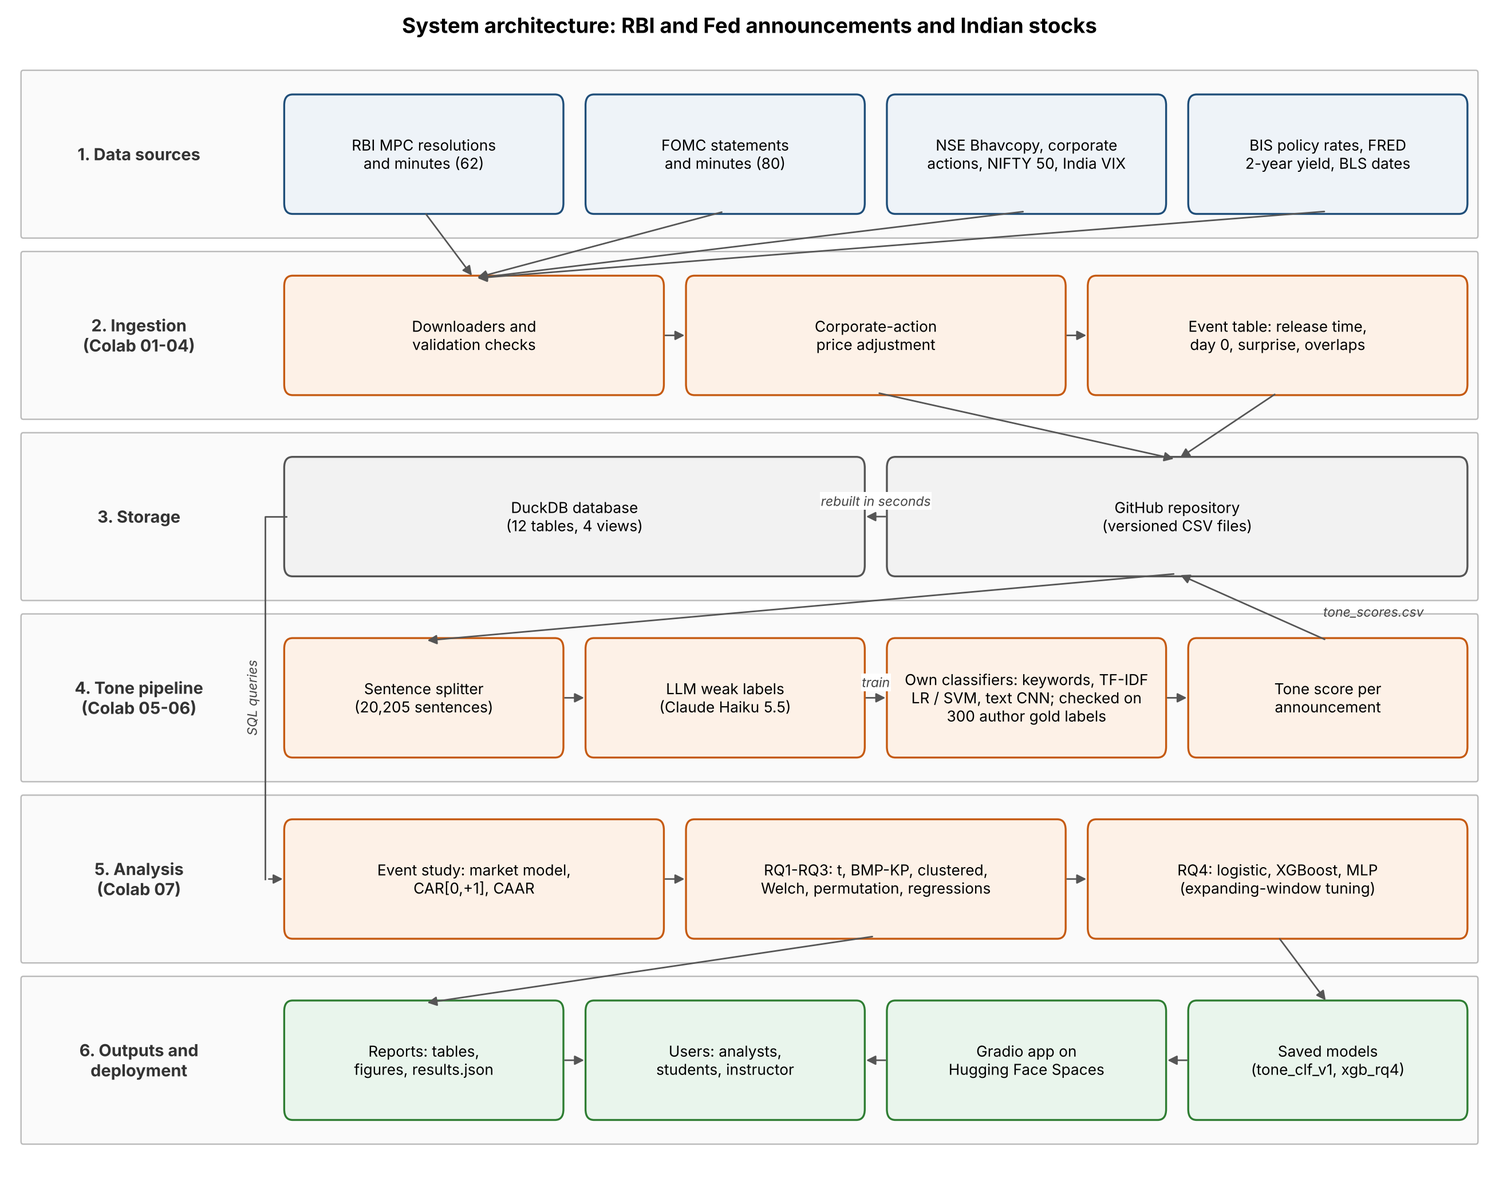
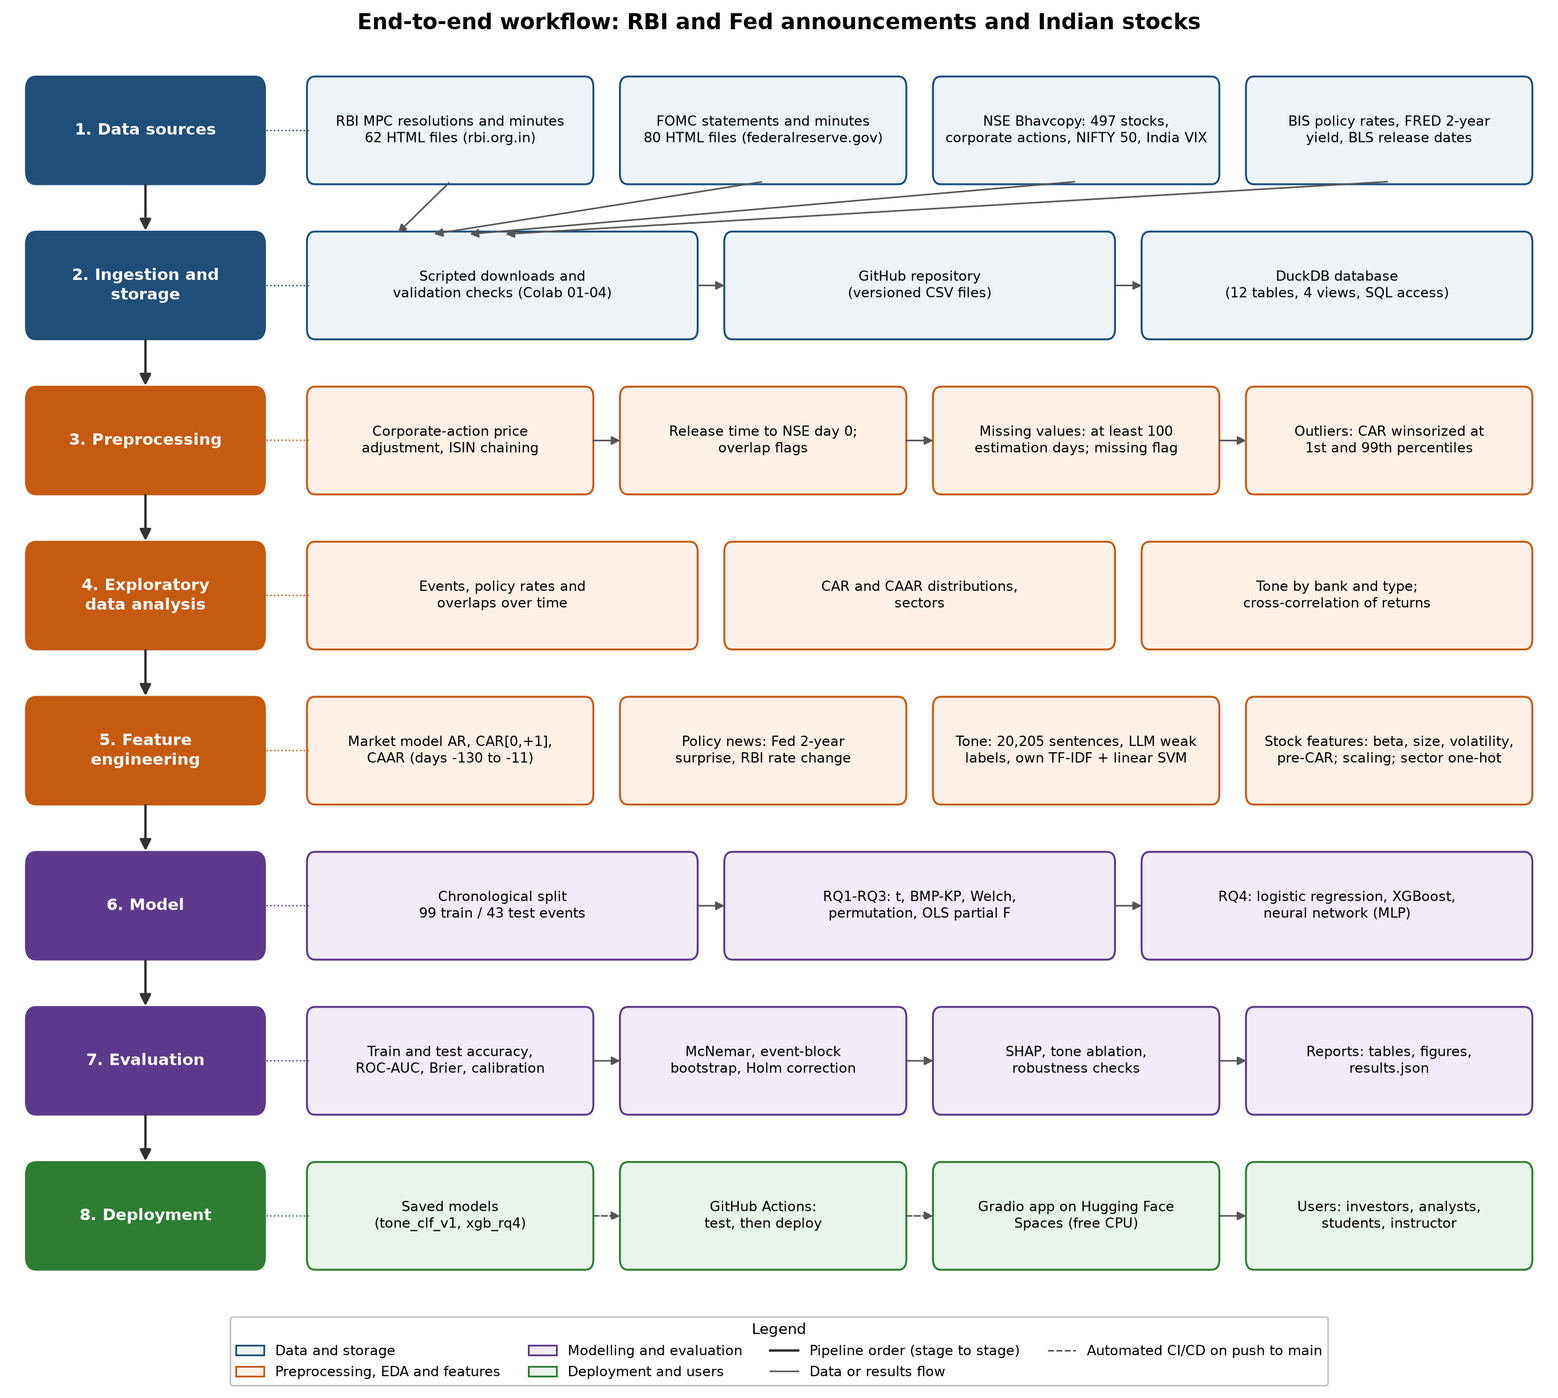
Redraw architecture diagram and add EDA and data-quality outputs
docs/architecture.py: eight stages (data sources, ingestion and storage, preprocessing, EDA, feature engineering,
model, evaluation, deployment with GitHub Actions and Hugging Face Spaces) with a legend
src/analysis/eda_summary.py: data-quality log, exclusion counts (reproduces the 61,957 stock-events), event,
CAR-distribution and sector tables, policy-rate timeline and CAR histogram in reports/final/eda/
README: EDA script and outputs

Changed region(s): [[0.0, 0.0, 0.9901, 0.9952], [0.4641, 0.4354, 0.495, 0.4665]]

diff --git a/src/analysis/eda_summary.py b/src/analysis/eda_summary.py
@@ -1,0 +1,162 @@
+"""
+Exploratory data analysis and data-quality log for the final report.
+
+Reads the same inputs as src/analysis/final_analysis.py and its outputs in reports/final/analysis/,
+and writes reports/final/eda/:
+    data_quality.csv          missing values, exclusions and outlier handling, with counts
+    exclusions.csv            stock-event candidates and the reason each excluded one was dropped
+    eda_events.csv            announcements by bank and type: decisions, CAAR, share of stocks up, tone, overlaps
+    eda_car_distribution.csv  distribution of stock-level CAR[0,+1] before and after winsorization
+    eda_sectors.csv           stocks and stock-events by sector, mean CAR and share up
+    figures/fig_eda_timeline.png  policy rates with announcement dates
+    figures/fig_eda_car_hist.png  stock-level CAR[0,+1] histogram with winsorization bounds
+
+Run from the repository root after notebook 07:
+    python src/analysis/eda_summary.py
+"""
+import json
+from pathlib import Path
+
+import matplotlib
+matplotlib.use("Agg")
+import matplotlib.pyplot as plt
+import numpy as np
+import pandas as pd
+
+ROOT = Path(__file__).resolve().parents[2]
+FINAL = ROOT / "reports/final/analysis"
+OUT = ROOT / "reports/final/eda"
+FIG = OUT / "figures"
+FIG.mkdir(parents=True, exist_ok=True)
+EST_START, EST_END, MIN_EST = -130, -11, 100        # same as final_analysis.py
+C_RBI, C_FED = "#1f4e79", "#c55a11"
+plt.rcParams.update({"font.family": "DejaVu Serif", "font.size": 10, "axes.spines.top": False,
+                     "axes.spines.right": False, "figure.dpi": 150})
+
+# ---------------------------------------------------------------- inputs
+adj = pd.read_csv(ROOT / "data/interim/prices_adjusted.csv.gz", parse_dates=["date"],
+                  usecols=["date", "symbol_current", "ret", "complex_action"])
+R = adj.pivot(index="date", columns="symbol_current", values="ret").sort_index()
+CX = adj.pivot(index="date", columns="symbol_current", values="complex_action").reindex(R.index).fillna(False).astype(bool)
+nifty = pd.read_csv(ROOT / "data/raw/prices/nifty50_daily.csv", parse_dates=["date"]).set_index("date")
+M = nifty["close"].pct_change().reindex(R.index)
+val = pd.read_csv(ROOT / "data/raw/prices/validation_report.csv")
+ev = pd.read_csv(FINAL / "event_level.csv", parse_dates=["release_date", "event_day0"])
+se = pd.read_csv(FINAL / "stock_event_car.csv.gz")
+res = json.loads((FINAL / "results.json").read_text())
+lo, hi = res["sample"]["winsor_bounds_0_1"]
+Rv, Mv, CXv = R.values, M.values, CX.values
+n_days = len(R)
+
+# ---------------------------------------------------------------- 1. exclusions (same rules as final_analysis.py)
+rows = []
+for e in ev.itertuples():
+    t0 = int(e.t0)
+    e0, e1 = max(t0 + EST_START, 0), t0 + EST_END
+    Y, X = Rv[e0:e1 + 1], Mv[e0:e1 + 1][:, None]
+    n_est = (~np.isnan(Y) & ~np.isnan(X)).sum(0)
+    miss01 = np.isnan(Rv[t0]) | np.isnan(Rv[t0 + 1]) if t0 + 1 < n_days else np.ones(R.shape[1], bool)
+    cx = CXv[max(t0 - 1, 0):t0 + 2].any(0)
+    reason = np.where(n_est < MIN_EST, "fewer than 100 estimation days (recent listing)",
+             np.where(miss01, "no return on day 0 or day +1",
+             np.where(cx, "complex corporate action on days -1 to +1", "kept")))
+    rows.append(pd.Series(reason).value_counts().rename(e.event_id))
+excl = pd.DataFrame(rows).fillna(0).astype(int)
+excl_tot = excl.sum().sort_values(ascending=False)
+excl_tot.rename_axis("reason").rename("stock_events").to_csv(OUT / "exclusions.csv")
+assert excl_tot.get("kept", 0) == len(se), "exclusion rules must reproduce the 61,957 stock-events"
+
+# ---------------------------------------------------------------- 2. data-quality log
+n_const, n_priced = len(val), int(val["rows"].gt(0).sum())
+car = se["car_raw"]
+fed_missing = ev.loc[(ev["bank"] == "FED") & ev["surprise_bps"].isna(), "event_id"].tolist()
+dq = [
+    ("NIFTY 500 constituents in the index file", n_const, "Universe as of October 2026"),
+    ("Constituents without NSE equity prices", n_const - n_priced, "Excluded (3 REITs and 1 placeholder symbol)"),
+    ("Stocks with price files", n_priced, "Used"),
+    ("Trading days in the price window (Apr 2021 to Sep 2026)", n_days, ""),
+    ("Stocks listed after April 2021 (shorter history)", int((val["rows"].between(1, n_days - 1)).sum()),
+     "Kept; a stock-event needs at least 100 valid estimation days"),
+    ("Missing trading days inside a stock's listed period (total)", int(val["missing_days"].fillna(0).sum()),
+     "Left missing (no filling); returns over the gap are not used"),
+    ("Stock-days with complex corporate actions", int(adj["complex_action"].sum()),
+     "Stock-events with such a day in [-1,+1] excluded"),
+    ("Stock-event candidates (142 events x stocks with prices)", int(excl.values.sum()), ""),
+] + [(f"Excluded: {k}", int(v), "Dropped") for k, v in excl_tot.items() if k != "kept"] + [
+    ("Stock-events kept", int(excl_tot["kept"]), f"{excl_tot['kept'] / excl.values.sum():.1%} of candidates"),
+    ("Fed events without a 2-year yield surprise", len(fed_missing),
+     f"{', '.join(fed_missing)}: dropped from RQ3 (141 events); in RQ4 set to 0 with a missing-value flag"),
+    ("RBI events with a market-based surprise", 0, "India T-bill not used; RBI rate change (bp) used instead, 0 for holds and minutes"),
+    ("Stock CARs below the 1st percentile", int((car < lo).sum()), f"Winsorized to {lo:.2f} pp"),
+    ("Stock CARs above the 99th percentile", int((car > hi).sum()), f"Winsorized to {hi:.2f} pp"),
+    ("Stock CARs exactly zero", int((se["car"] == 0).sum()), "Would be excluded from RQ4 (direction undefined)"),
+    ("Announcements with another event or macro release on days -1 to +1", int(ev["overlap_flag"].sum()),
+     "Kept in the main analysis; excluded in robustness checks"),
+]
+pd.DataFrame(dq, columns=["item", "count", "handling"]).to_csv(OUT / "data_quality.csv", index=False)
+
+# ---------------------------------------------------------------- 3. events by bank and type
+g = ev.groupby(["bank", "event_type"])
+eda_ev = pd.DataFrame({
+    "events": g.size(),
+    "hikes": g["decision"].apply(lambda x: (x == "hike").sum()),
+    "cuts": g["decision"].apply(lambda x: (x == "cut").sum()),
+    "holds": g["decision"].apply(lambda x: (x == "hold").sum()),
+    "stocks_per_event": g["n_stocks"].mean(),
+    "caar_mean": g["caar"].mean(), "caar_sd": g["caar"].std(), "caar_min": g["caar"].min(), "caar_max": g["caar"].max(),
+    "abs_caar_mean": g["abs_caar"].mean(), "share_up_mean": g["share_up"].mean(),
+    "tone_mean": g["tone_score"].mean(), "tone_sd": g["tone_score"].std(),
+    "sentences": g["n_sentences"].sum(), "overlap_events": g["overlap_flag"].sum(),
+    "mean_cross_corr": g["rbar"].mean(),
+}).round(4).reset_index()
+eda_ev.to_csv(OUT / "eda_events.csv", index=False)
+
+
+# ---------------------------------------------------------------- 4. CAR distribution
+def describe(x):
+    return {"n": len(x), "mean": x.mean(), "sd": x.std(), "p1": x.quantile(.01), "p25": x.quantile(.25),
+            "median": x.median(), "p75": x.quantile(.75), "p99": x.quantile(.99), "min": x.min(), "max": x.max(),
+            "skew": x.skew(), "excess_kurtosis": x.kurt(), "share_positive": (x > 0).mean()}
+
+
+dist = pd.DataFrame({"before winsorization": describe(car), "after winsorization": describe(se["car"]),
+                     "event CAAR (142 events)": describe(ev["caar"])}).T.round(4)
+dist.index.name = "series"
+dist.to_csv(OUT / "eda_car_distribution.csv")
+
+# ---------------------------------------------------------------- 5. sectors
+sec = (se.groupby("sector").agg(stocks=("symbol", "nunique"), stock_events=("car", "size"),
+                                mean_car=("car", "mean"), share_up=("car", lambda x: (x > 0).mean()))
+         .sort_values("stocks", ascending=False).round(4).reset_index())
+sec.to_csv(OUT / "eda_sectors.csv", index=False)
+
+# ---------------------------------------------------------------- 6. figures
+rates = pd.read_csv(ROOT / "data/interim/policy_rates.csv", parse_dates=["date"]).set_index("date")
+rates = rates.reindex(pd.date_range("2021-09-01", "2026-09-30")).ffill()   # carry the last BIS value forward
+fig, ax = plt.subplots(figsize=(9, 3.6))
+ax.step(rates.index, rates["rbi_rate"], where="post", color=C_RBI, lw=1.6, label="RBI repo rate")
+ax.step(rates.index, rates["fed_rate"], where="post", color=C_FED, lw=1.6, label="Fed funds target (mid-point)")
+for b, col, y in [("RBI", C_RBI, -0.35), ("FED", C_FED, -0.75)]:
+    for t, mk in [("DEC", "|"), ("MIN", "x")]:
+        d = ev[(ev["bank"] == b) & (ev["event_type"] == t)]["release_date"]
+        ax.scatter(d, np.full(len(d), y), marker=mk, color=col, s=28 if mk == "|" else 14, lw=1,
+                   label=f"{'Fed' if b == 'FED' else 'RBI'} {'decisions' if t == 'DEC' else 'minutes'}")
+ax.set_ylabel("Policy rate (%)"); ax.set_ylim(-1.1, 7.2)
+ax.legend(ncol=3, fontsize=8, frameon=False, loc="upper left")
+fig.tight_layout(); fig.savefig(FIG / "fig_eda_timeline.png", dpi=200, bbox_inches="tight"); plt.close(fig)
+
+fig, ax = plt.subplots(figsize=(8, 3.4))
+ax.hist(car.clip(-15, 15), bins=120, color="#7f8c8d", alpha=0.85)
+for b in (lo, hi):
+    ax.axvline(b, color="black", lw=0.9, ls="--")
+ax.text(hi + 0.3, ax.get_ylim()[1] * 0.85, f"99th pct\n{hi:.2f}", fontsize=8)
+ax.text(lo - 0.3, ax.get_ylim()[1] * 0.85, f"1st pct\n{lo:.2f}", fontsize=8, ha="right")
+ax.set_xlabel("Stock CAR[0,+1], percentage points (values beyond +/-15 shown at the edges)"); ax.set_ylabel("Stock-events")
+fig.tight_layout(); fig.savefig(FIG / "fig_eda_car_hist.png", dpi=200, bbox_inches="tight"); plt.close(fig)
+
+# ---------------------------------------------------------------- print
+pd.set_option("display.width", 200)
+print(pd.read_csv(OUT / "data_quality.csv").to_string(index=False))
+print(eda_ev.to_string(index=False))
+print(dist.to_string())
+print(sec.head(8).to_string(index=False))

diff --git a/docs/architecture.py b/docs/architecture.py
@@ -1,78 +1,87 @@
-"""Draws docs/architecture.png (system architecture of the capstone project). Run: python docs/architecture.py"""
+"""Draws docs/architecture.png (end-to-end workflow of the capstone project). Run: python docs/architecture.py"""
 from pathlib import Path
+
 import matplotlib
 matplotlib.use("Agg")
 import matplotlib.pyplot as plt
-from matplotlib.patches import FancyBboxPatch, FancyArrowPatch
+from matplotlib.lines import Line2D
+from matplotlib.patches import FancyArrowPatch, FancyBboxPatch, Patch
 
-LAYERS = [  # (layer title, fill, edge, boxes)
-    ("1. Data sources", "#eef3f8", "#1f4e79",
-     ["RBI MPC resolutions\nand minutes (62)", "FOMC statements\nand minutes (80)", "NSE Bhavcopy, corporate\nactions, NIFTY 50, India VIX",
-      "BIS policy rates, FRED\n2-year yield, BLS dates"]),
-    ("2. Ingestion\n(Colab 01-04)", "#fdf1e7", "#c55a11",
-     ["Downloaders and\nvalidation checks", "Corporate-action\nprice adjustment", "Event table: release time,\nday 0, surprise, overlaps"]),
-    ("3. Storage", "#f2f2f2", "#555555",
-     ["DuckDB database\n(12 tables, 4 views)", "GitHub repository\n(versioned CSV files)"]),
-    ("4. Tone pipeline\n(Colab 05-06)", "#fdf1e7", "#c55a11",
-     ["Sentence splitter\n(20,205 sentences)", "LLM weak labels\n(Claude Haiku 5.5)",
-      "Own classifiers: keywords, TF-IDF\nLR / SVM, text CNN; checked on\n300 author gold labels", "Tone score per\nannouncement"]),
-    ("5. Analysis\n(Colab 07)", "#fdf1e7", "#c55a11",
-     ["Event study: market model,\nCAR[0,+1], CAAR", "RQ1-RQ3: t, BMP-KP, clustered,\nWelch, permutation, regressions",
-      "RQ4: logistic, XGBoost, MLP\n(expanding-window tuning)"]),
-    ("6. Outputs and\ndeployment", "#e9f5ec", "#2e7d32",
-     ["Reports: tables,\nfigures, results.json", "Users: analysts,\nstudents, instructor", "Gradio app on\nHugging Face Spaces",
-      "Saved models\n(tone_clf_v1, xgb_rq4)"]),
+KIND = {  # stage type: (box fill, edge colour, legend label)
+    "data": ("#eef3f8", "#1f4e79", "Data and storage"),
+    "prep": ("#fdf1e7", "#c55a11", "Preprocessing, EDA and features"),
+    "model": ("#f1ecf7", "#5b3a8c", "Modelling and evaluation"),
+    "deploy": ("#e9f5ec", "#2e7d32", "Deployment and users"),
+}
+STAGES = [  # (stage title, kind, boxes, chain the boxes left to right)
+    ("1. Data sources", "data",
+     ["RBI MPC resolutions and minutes\n62 HTML files (rbi.org.in)", "FOMC statements and minutes\n80 HTML files (federalreserve.gov)",
+      "NSE Bhavcopy: 497 stocks,\ncorporate actions, NIFTY 50, India VIX", "BIS policy rates, FRED 2-year\nyield, BLS release dates"], False),
+    ("2. Ingestion and\nstorage", "data",
+     ["Scripted downloads and\nvalidation checks (Colab 01-04)", "GitHub repository\n(versioned CSV files)",
+      "DuckDB database\n(12 tables, 4 views, SQL access)"], True),
+    ("3. Preprocessing", "prep",
+     ["Corporate-action price\nadjustment, ISIN chaining", "Release time to NSE day 0;\noverlap flags",
+      "Missing values: at least 100\nestimation days; missing flag", "Outliers: CAR winsorized at\n1st and 99th percentiles"], True),
+    ("4. Exploratory\ndata analysis", "prep",
+     ["Events, policy rates and\noverlaps over time", "CAR and CAAR distributions,\nsectors", "Tone by bank and type;\ncross-correlation of returns"], False),
+    ("5. Feature\nengineering", "prep",
+     ["Market model AR, CAR[0,+1],\nCAAR (days -130 to -11)", "Policy news: Fed 2-year\nsurprise, RBI rate change",
+      "Tone: 20,205 sentences, LLM weak\nlabels, own TF-IDF + linear SVM", "Stock features: beta, size, volatility,\npre-CAR; scaling; sector one-hot"], False),
+    ("6. Model", "model",
+     ["Chronological split\n99 train / 43 test events", "RQ1-RQ3: t, BMP-KP, Welch,\npermutation, OLS partial F",
+      "RQ4: logistic regression, XGBoost,\nneural network (MLP)"], True),
+    ("7. Evaluation", "model",
+     ["Train and test accuracy,\nROC-AUC, Brier, calibration", "McNemar, event-block\nbootstrap, Holm correction",
+      "SHAP, tone ablation,\nrobustness checks", "Reports: tables, figures,\nresults.json"], True),
+    ("8. Deployment", "deploy",
+     ["Saved models\n(tone_clf_v1, xgb_rq4)", "GitHub Actions:\ntest, then deploy",
+      "Gradio app on Hugging Face\nSpaces (free CPU)", "Users: investors, analysts,\nstudents, instructor"], True),
 ]
-W, X0, X1, BH, GAP = 14, 2.6, 13.8, 0.85, 1.35
-fig, ax = plt.subplots(figsize=(12, 9.6))
-ax.set_xlim(0, W); ax.set_ylim(-0.3, len(LAYERS) * GAP + 0.1); ax.axis("off")
+W, X0, X1, BH, GAP = 15, 2.9, 14.85, 0.78, 1.18
+n_st = len(STAGES)
+fig, ax = plt.subplots(figsize=(12.5, 11.2))
+ax.set_xlim(0, W); ax.set_ylim(-0.75, n_st * GAP + 0.05); ax.axis("off")
 centers = {}
-for i, (title, fill, edge, boxes) in enumerate(LAYERS):
-    y = (len(LAYERS) - 1 - i) * GAP + 0.2
-    ax.add_patch(FancyBboxPatch((0.1, y - 0.18), W - 0.2, BH + 0.36, boxstyle="round,pad=0.02", fc="#fafafa", ec="#bbbbbb", lw=0.8))
-    ax.text(1.2, y + BH / 2, title, ha="center", va="center", fontsize=9.5, weight="bold", color="#333333")
+
+
+def harrow(p, q, dashed=False):
+    ax.add_patch(FancyArrowPatch(p, q, arrowstyle="-|>", mutation_scale=10, color="#555555", lw=0.9,
+                                 linestyle="--" if dashed else "-", shrinkA=1, shrinkB=1))
+
+
+for i, (title, kind, boxes, chain) in enumerate(STAGES):
+    fill, edge, _ = KIND[kind]
+    y = (n_st - 1 - i) * GAP + 0.15
+    ax.add_patch(FancyBboxPatch((0.15, y), 2.3, BH, boxstyle="round,pad=0.02,rounding_size=0.1", fc=edge, ec=edge))
+    ax.text(1.3, y + BH / 2, title, ha="center", va="center", fontsize=9.3, weight="bold", color="white")
+    if i < n_st - 1:   # pipeline spine between stages
+        ax.add_patch(FancyArrowPatch((1.3, y), (1.3, y - GAP + BH), arrowstyle="-|>", mutation_scale=13, color="#333333", lw=1.4))
     n = len(boxes)
-    bw = (X1 - X0 - 0.25 * (n - 1)) / n
+    bw = (X1 - X0 - 0.3 * (n - 1)) / n
     for j, b in enumerate(boxes):
-        x = X0 + j * (bw + 0.25)
+        x = X0 + j * (bw + 0.3)
         ax.add_patch(FancyBboxPatch((x, y), bw, BH, boxstyle="round,pad=0.02,rounding_size=0.08", fc=fill, ec=edge, lw=1.1))
-        ax.text(x + bw / 2, y + BH / 2, b, ha="center", va="center", fontsize=8.6)
+        ax.text(x + bw / 2, y + BH / 2, b, ha="center", va="center", fontsize=7.9)
         centers[(i, j)] = (x, y, bw)
+        if chain and j > 0:
+            px, _, pw = centers[(i, j - 1)]
+            harrow((px + pw, y + BH / 2), (x, y + BH / 2), dashed=(i == n_st - 1 and j in (1, 2)))
+    ax.plot([2.45, X0], [y + BH / 2, y + BH / 2], color=edge, lw=0.8, ls=":")
 
+# extra links that are not left-to-right
+x, y, w = centers[(0, 0)]
+for j in range(4):
+    xa, ya, wa = centers[(0, j)]
+    harrow((xa + wa / 2, ya), (x + w / 2 + (j - 1.5) * 0.35, y - GAP + BH))
 
-def arrow(a, b, side_a="bottom", side_b="top", label=None, rad=0.0):
-    xa, ya, wa = centers[a]; xb, yb, wb = centers[b]
-    pa = {"bottom": (xa + wa / 2, ya), "right": (xa + wa, ya + BH / 2), "top": (xa + wa / 2, ya + BH), "left": (xa, ya + BH / 2)}[side_a]
-    pb = {"top": (xb + wb / 2, yb + BH), "left": (xb, yb + BH / 2), "bottom": (xb + wb / 2, yb), "right": (xb + wb, yb + BH / 2)}[side_b]
-    ax.add_patch(FancyArrowPatch(pa, pb, arrowstyle="-|>", mutation_scale=11, color="#555555", lw=0.9,
-                                 connectionstyle=f"arc3,rad={rad}", shrinkA=2, shrinkB=2))
-    if label:
-        ax.text((pa[0] + pb[0]) / 2, (pa[1] + pb[1]) / 2 + 0.08, label, ha="center", fontsize=7.5, style="italic", bbox=dict(fc="white", ec="none", pad=0.5), color="#444444")
-
-
-def route_left(a, b, x_route=2.4, label=None):
-    """Elbow connector along the left margin (keeps the line clear of other boxes)."""
-    xa, ya, _ = centers[a]; xb, yb, _ = centers[b]
-    ax.plot([xa, x_route, x_route], [ya + BH / 2, ya + BH / 2, yb + BH / 2], color="#555555", lw=0.9)
-    ax.add_patch(FancyArrowPatch((x_route, yb + BH / 2), (xb, yb + BH / 2), arrowstyle="-|>", mutation_scale=11,
-                                 color="#555555", lw=0.9, shrinkB=2))
-    if label:
-        ax.text(x_route - 0.05, (ya + yb) / 2 + BH / 2, label, rotation=90, ha="right", va="center", fontsize=7.5, style="italic", color="#444444")
-
-
-for j in range(4):                       # sources to downloaders
-    arrow((0, j), (1, 0))
-arrow((1, 0), (1, 1), "right", "left"); arrow((1, 1), (1, 2), "right", "left")
-arrow((1, 1), (2, 1)); arrow((1, 2), (2, 1))
-arrow((2, 1), (2, 0), "left", "right", "rebuilt in seconds")
-arrow((2, 1), (3, 0)); ax.text(12.45, 3.93, "tone_scores.csv", fontsize=7.5, style="italic", color="#444444", ha="left")
-arrow((3, 0), (3, 1), "right", "left"); arrow((3, 1), (3, 2), "right", "left", "train")
-arrow((3, 2), (3, 3), "right", "left")
-arrow((3, 3), (2, 1), "top", "bottom")
-route_left((2, 0), (4, 0), label="SQL queries")
-arrow((4, 0), (4, 1), "right", "left"); arrow((4, 1), (4, 2), "right", "left")
-arrow((4, 1), (5, 0)); arrow((4, 2), (5, 3))
-arrow((5, 3), (5, 2), "left", "right"); arrow((5, 2), (5, 1), "left", "right"); arrow((5, 0), (5, 1), "right", "left")
-ax.set_title("System architecture: RBI and Fed announcements and Indian stocks", fontsize=12, weight="bold", pad=6)
+legend = [Patch(fc=f, ec=e, label=l) for f, e, l in KIND.values()] + [
+    Line2D([0], [0], color="#333333", lw=1.4, label="Pipeline order (stage to stage)"),
+    Line2D([0], [0], color="#555555", lw=0.9, label="Data or results flow"),
+    Line2D([0], [0], color="#555555", lw=0.9, ls="--", label="Automated CI/CD on push to main"),
+]
+ax.legend(handles=legend, loc="lower center", bbox_to_anchor=(0.5, -0.005), ncol=4, fontsize=8, frameon=True,
+          edgecolor="#bbbbbb", title="Legend", title_fontsize=8.5)
+ax.set_title("End-to-end workflow: RBI and Fed announcements and Indian stocks", fontsize=12.5, weight="bold", pad=6)
 fig.tight_layout()
 fig.savefig(Path(__file__).with_name("architecture.png"), dpi=220, bbox_inches="tight", facecolor="white")

diff --git a/README.md b/README.md
@@ -26,7 +26,7 @@ helps explain or predict that reaction.
 - **RQ4:** no model reliably beats the majority class on the test period (best test AUC .546, logistic regression).
 - **Tone classifier:** TF-IDF + linear SVM, macro-F1 .785 and Cohen's kappa .685 on 200 held-out sentences labeled by the author.
 
-Full tables: `reports/final/analysis/` and `reports/final/tone/`.
+Full tables: `reports/final/analysis/`, `reports/final/tone/` and `reports/final/eda/` (EDA and data-quality log).
 
 ## Data
 
@@ -55,7 +55,7 @@ data/labels/         labeling guideline, gold labels, LLM labels
 data/db_schema.md    DuckDB schema (the database file itself is rebuilt, not committed)
 src/data/            build_database.py, db.py
 src/tone/            sentences.py, gold_sample.py, llm_label.py, classifier.py
-src/analysis/        interim_analysis.py, final_analysis.py
+src/analysis/        interim_analysis.py, final_analysis.py, eda_summary.py
 notebooks/           Colab notebooks 01-07 (run order in notebooks/README.md)
 models/              tone_clf_v1.joblib, xgb_rq4.json, xgb_rq4_features.json
 app/                 Gradio app (app.py, model.py, build_app_data.py, data/)
@@ -76,6 +76,7 @@ pip install -r requirements.txt
 python src/data/build_database.py      # DuckDB database, about 5 seconds
 python src/tone/classifier.py          # tone models and tone scores, about 10 minutes on CPU
 python src/analysis/final_analysis.py  # RQ1-RQ4 and robustness, about 5 minutes on CPU
+python src/analysis/eda_summary.py     # EDA tables, data-quality log and two figures, a few seconds
 pytest tests
 ```
 
